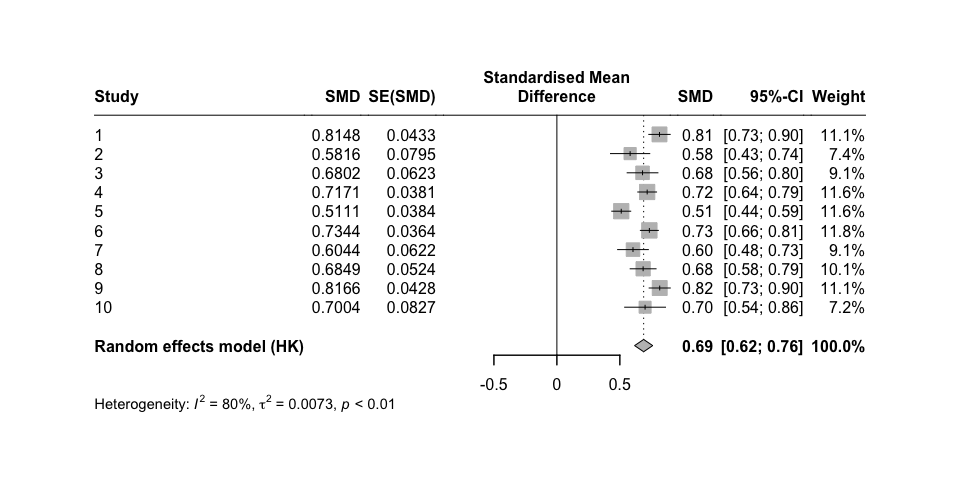
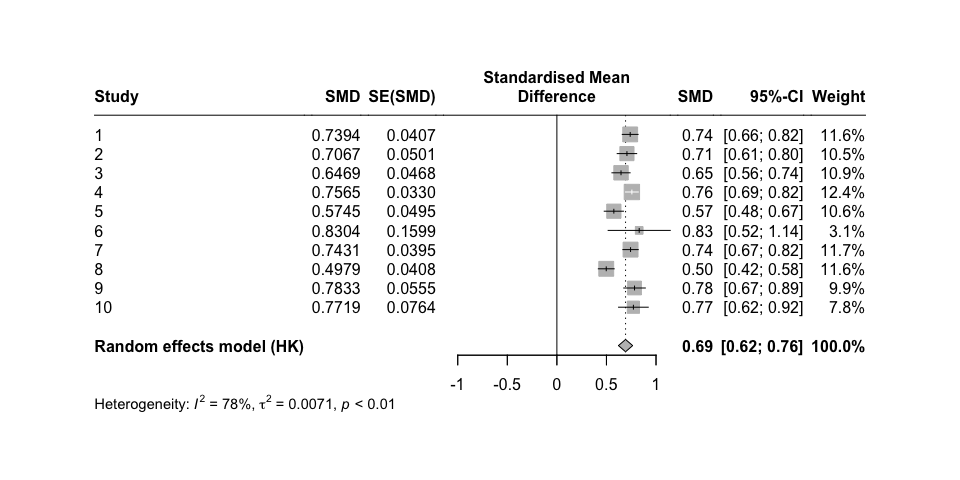
supress messages

diff --git a/README.md b/README.md
@@ -48,12 +48,12 @@ head(sim)
 #> # A tibble: 6 × 10
 #>   study hedges_g     se   mean_x mean_y  sd_x  sd_y   n_x   n_y      vi
 #>   <int>    <dbl>  <dbl>    <dbl>  <dbl> <dbl> <dbl> <int> <int>   <dbl>
-#> 1     1    0.365 0.0457 -0.0101   0.359 1.00  1.02    975   975 0.00209
-#> 2     2    0.280 0.0392  0.0250   0.306 0.991 1.02   1317  1317 0.00153
-#> 3     3    0.298 0.0334  0.00602  0.305 1.01  0.999  1817  1817 0.00111
-#> 4     4    0.293 0.0393 -0.00129  0.301 1.04  1.02   1309  1309 0.00154
-#> 5     5    0.300 0.0420 -0.00234  0.300 1.01  1.00   1147  1147 0.00176
-#> 6     6    0.427 0.0618 -0.0634   0.365 1.00  0.998   535   535 0.00382
+#> 1     1    0.228 0.0439  0.0486   0.278 0.979 1.03   1046  1046 0.00192
+#> 2     2    0.322 0.0322  0.0116   0.335 1.01  1.00   1958  1958 0.00103
+#> 3     3    0.220 0.0440 -0.00439  0.225 1.03  1.06   1040  1040 0.00193
+#> 4     4    0.261 0.0335 -0.0191   0.245 1.03  0.987  1802  1802 0.00112
+#> 5     5    0.334 0.0327 -0.0268   0.310 1.01  1.00   1898  1898 0.00107
+#> 6     6    0.324 0.0376 -0.0120   0.309 1.01  0.970  1436  1436 0.00141
 ```
 
 # Effect size and standard error
@@ -75,12 +75,6 @@ ggplot(sim, aes(x = hedges_g, y = log(se), color = n_x))+
 
 ``` r
 require(meta)
-#> Loading required package: meta
-#> Loading required package: metadat
-#> Loading 'meta' package (version 7.0-0).
-#> Type 'help(meta)' for a brief overview.
-#> Readers of 'Meta-Analysis with R (Use R!)' should install
-#> older version of 'meta' package: https://tinyurl.com/dt4y5drs
 
 metaanalysis <- metagen(TE = hedges_g,
                  seTE = se,
@@ -94,30 +88,30 @@ metaanalysis <- metagen(TE = hedges_g,
 summary(metaanalysis)
 #> Review:     Meta-Analysis fixed-effect
 #> 
-#>       SMD           95%-CI %W(common)
-#> 1  0.3650 [0.2755; 0.4545]        9.5
-#> 2  0.2803 [0.2036; 0.3571]       12.9
-#> 3  0.2976 [0.2322; 0.3630]       17.8
-#> 4  0.2932 [0.2162; 0.3702]       12.8
-#> 5  0.2997 [0.2174; 0.3820]       11.2
-#> 6  0.4273 [0.3061; 0.5485]        5.2
-#> 7  0.4045 [0.2689; 0.5402]        4.1
-#> 8  0.2634 [0.1792; 0.3475]       10.7
-#> 9  0.3115 [0.2283; 0.3947]       11.0
-#> 10 0.3772 [0.2514; 0.5030]        4.8
+#>       SMD            95%-CI %W(common)
+#> 1  0.2277 [ 0.1417; 0.3137]        9.6
+#> 2  0.3219 [ 0.2588; 0.3849]       17.8
+#> 3  0.2199 [ 0.1337; 0.3062]        9.5
+#> 4  0.2610 [ 0.1954; 0.3265]       16.5
+#> 5  0.3337 [ 0.2696; 0.3977]       17.2
+#> 6  0.3239 [ 0.2502; 0.3975]       13.1
+#> 7  0.4734 [ 0.2297; 0.7170]        1.2
+#> 8  0.3474 [ 0.2639; 0.4309]       10.1
+#> 9  0.3017 [ 0.1730; 0.4304]        4.3
+#> 10 0.0886 [-0.2140; 0.3912]        0.8
 #> 
 #> Number of studies: k = 10
 #> 
 #>                        SMD           95%-CI     z  p-value
-#> Common effect model 0.3142 [0.2867; 0.3418] 22.34 < 0.0001
+#> Common effect model 0.2972 [0.2706; 0.3238] 21.90 < 0.0001
 #> 
 #> Quantifying heterogeneity:
-#>  tau^2 < 0.0001 [0.0000; 0.0077]; tau = 0.0011 [0.0000; 0.0878]
-#>  I^2 = 10.5% [0.0%; 51.0%]; H = 1.06 [1.00; 1.43]
+#>  tau^2 = 0.0008 [0.0000; 0.0195]; tau = 0.0291 [0.0000; 0.1397]
+#>  I^2 = 37.2% [0.0%; 70.1%]; H = 1.26 [1.00; 1.83]
 #> 
 #> Test of heterogeneity:
 #>      Q d.f. p-value
-#>  10.06    9  0.3459
+#>  14.33    9  0.1110
 #> 
 #> Details on meta-analytical method:
 #> - Inverse variance method
@@ -149,14 +143,14 @@ sim <- sim_meta(min_obs = 20,
 
 head(sim)
 #> # A tibble: 6 × 10
-#>   study hedges_g     se   mean_x mean_y  sd_x  sd_y   n_x   n_y      vi
-#>   <int>    <dbl>  <dbl>    <dbl>  <dbl> <dbl> <dbl> <int> <int>   <dbl>
-#> 1     1    0.815 0.0433 -0.0621   0.749 1.00  0.990  1155  1155 0.00188
-#> 2     2    0.582 0.0795  0.0749   0.686 1.10  1.00    330   330 0.00632
-#> 3     3    0.680 0.0623 -0.0652   0.640 1.06  1.02    545   545 0.00388
-#> 4     4    0.717 0.0381 -0.00661  0.715 1.01  1.00   1468  1468 0.00145
-#> 5     5    0.511 0.0384  0.107    0.622 0.993 1.02   1401  1401 0.00147
-#> 6     6    0.734 0.0364  0.0545   0.784 0.991 0.995  1613  1613 0.00132
+#>   study hedges_g     se  mean_x mean_y  sd_x  sd_y   n_x   n_y      vi
+#>   <int>    <dbl>  <dbl>   <dbl>  <dbl> <dbl> <dbl> <int> <int>   <dbl>
+#> 1     1    0.739 0.0407 -0.0268  0.703 1.01  0.964  1288  1288 0.00166
+#> 2     2    0.707 0.0501 -0.0305  0.686 1.03  0.997   845   845 0.00251
+#> 3     3    0.647 0.0468  0.0517  0.694 0.972 1.01    961   961 0.00219
+#> 4     4    0.756 0.0330 -0.0461  0.711 1.01  0.992  1963  1963 0.00109
+#> 5     5    0.575 0.0495  0.0235  0.603 0.995 1.02    851   851 0.00245
+#> 6     6    0.830 0.160  -0.0178  0.778 0.992 0.915    85    85 0.0256
 ```
 
 Run Random-Effects Meta-Analysis
@@ -164,17 +158,6 @@ Run Random-Effects Meta-Analysis
 ``` r
 require(meta)
 require(metafor)
-#> Loading required package: metafor
-#> Loading required package: Matrix
-#> 
-#> Attaching package: 'Matrix'
-#> The following objects are masked from 'package:tidyr':
-#> 
-#>     expand, pack, unpack
-#> Loading required package: numDeriv
-#> 
-#> Loading the 'metafor' package (version 4.4-0). For an
-#> introduction to the package please type: help(metafor)
 
 metaanalysis <- metagen(TE = hedges_g,
                  seTE = se,
@@ -191,29 +174,29 @@ summary(metaanalysis)
 #> Review:     Meta-Analysis fixed-effect
 #> 
 #>       SMD           95%-CI %W(random)
-#> 1  0.8148 [0.7299; 0.8997]       11.1
-#> 2  0.5816 [0.4258; 0.7374]        7.4
-#> 3  0.6802 [0.5581; 0.8023]        9.1
-#> 4  0.7171 [0.6424; 0.7917]       11.6
-#> 5  0.5111 [0.4358; 0.5863]       11.6
-#> 6  0.7344 [0.6631; 0.8057]       11.8
-#> 7  0.6044 [0.4824; 0.7264]        9.1
-#> 8  0.6849 [0.5821; 0.7876]       10.1
-#> 9  0.8166 [0.7328; 0.9004]       11.1
-#> 10 0.7004 [0.5383; 0.8626]        7.2
+#> 1  0.7394 [0.6596; 0.8192]       11.6
+#> 2  0.7067 [0.6084; 0.8049]       10.5
+#> 3  0.6469 [0.5552; 0.7386]       10.9
+#> 4  0.7565 [0.6917; 0.8212]       12.4
+#> 5  0.5745 [0.4776; 0.6715]       10.6
+#> 6  0.8304 [0.5170; 1.1437]        3.1
+#> 7  0.7431 [0.6656; 0.8206]       11.7
+#> 8  0.4979 [0.4180; 0.5778]       11.6
+#> 9  0.7833 [0.6744; 0.8921]        9.9
+#> 10 0.7719 [0.6221; 0.9217]        7.8
 #> 
 #> Number of studies: k = 10
 #> 
 #>                              SMD           95%-CI     t  p-value
-#> Random effects model (HK) 0.6891 [0.6172; 0.7609] 21.69 < 0.0001
+#> Random effects model (HK) 0.6928 [0.6210; 0.7645] 21.84 < 0.0001
 #> 
 #> Quantifying heterogeneity:
-#>  tau^2 = 0.0073 [0.0024; 0.0292]; tau = 0.0852 [0.0491; 0.1710]
-#>  I^2 = 79.8% [63.5%; 88.8%]; H = 2.22 [1.65; 2.98]
+#>  tau^2 = 0.0071 [0.0022; 0.0304]; tau = 0.0841 [0.0466; 0.1744]
+#>  I^2 = 77.9% [59.5%; 87.9%]; H = 2.13 [1.57; 2.87]
 #> 
 #> Test of heterogeneity:
 #>      Q d.f.  p-value
-#>  44.45    9 < 0.0001
+#>  40.66    9 < 0.0001
 #> 
 #> Details on meta-analytical method:
 #> - Inverse variance method
